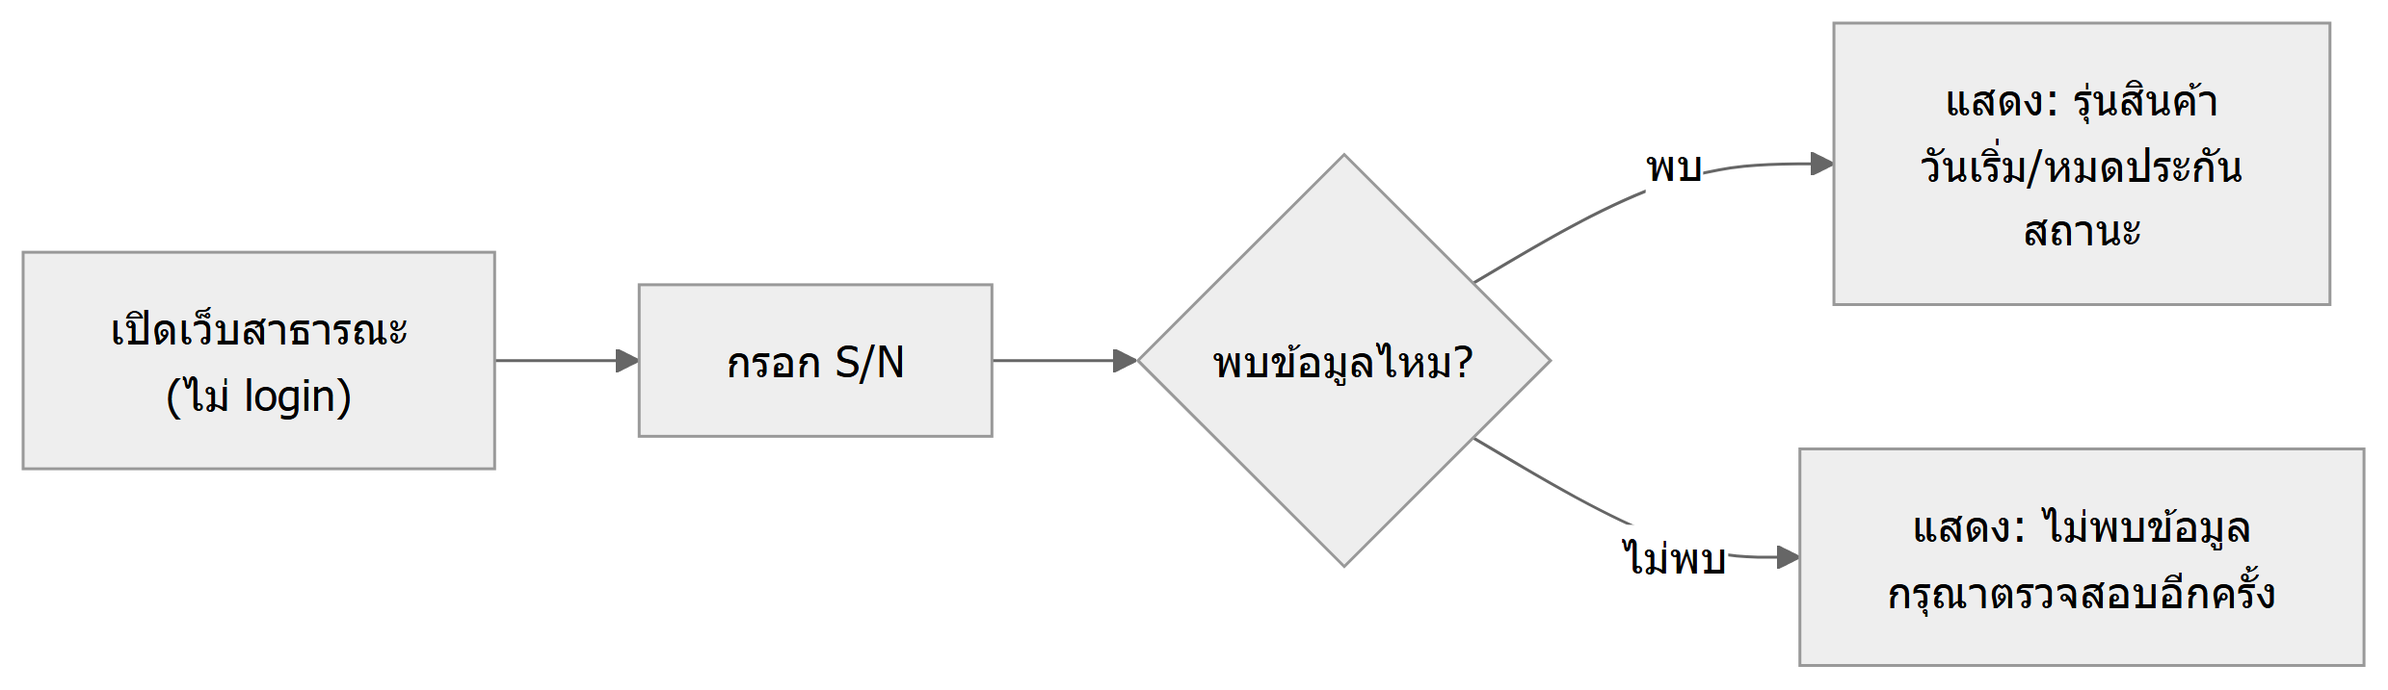
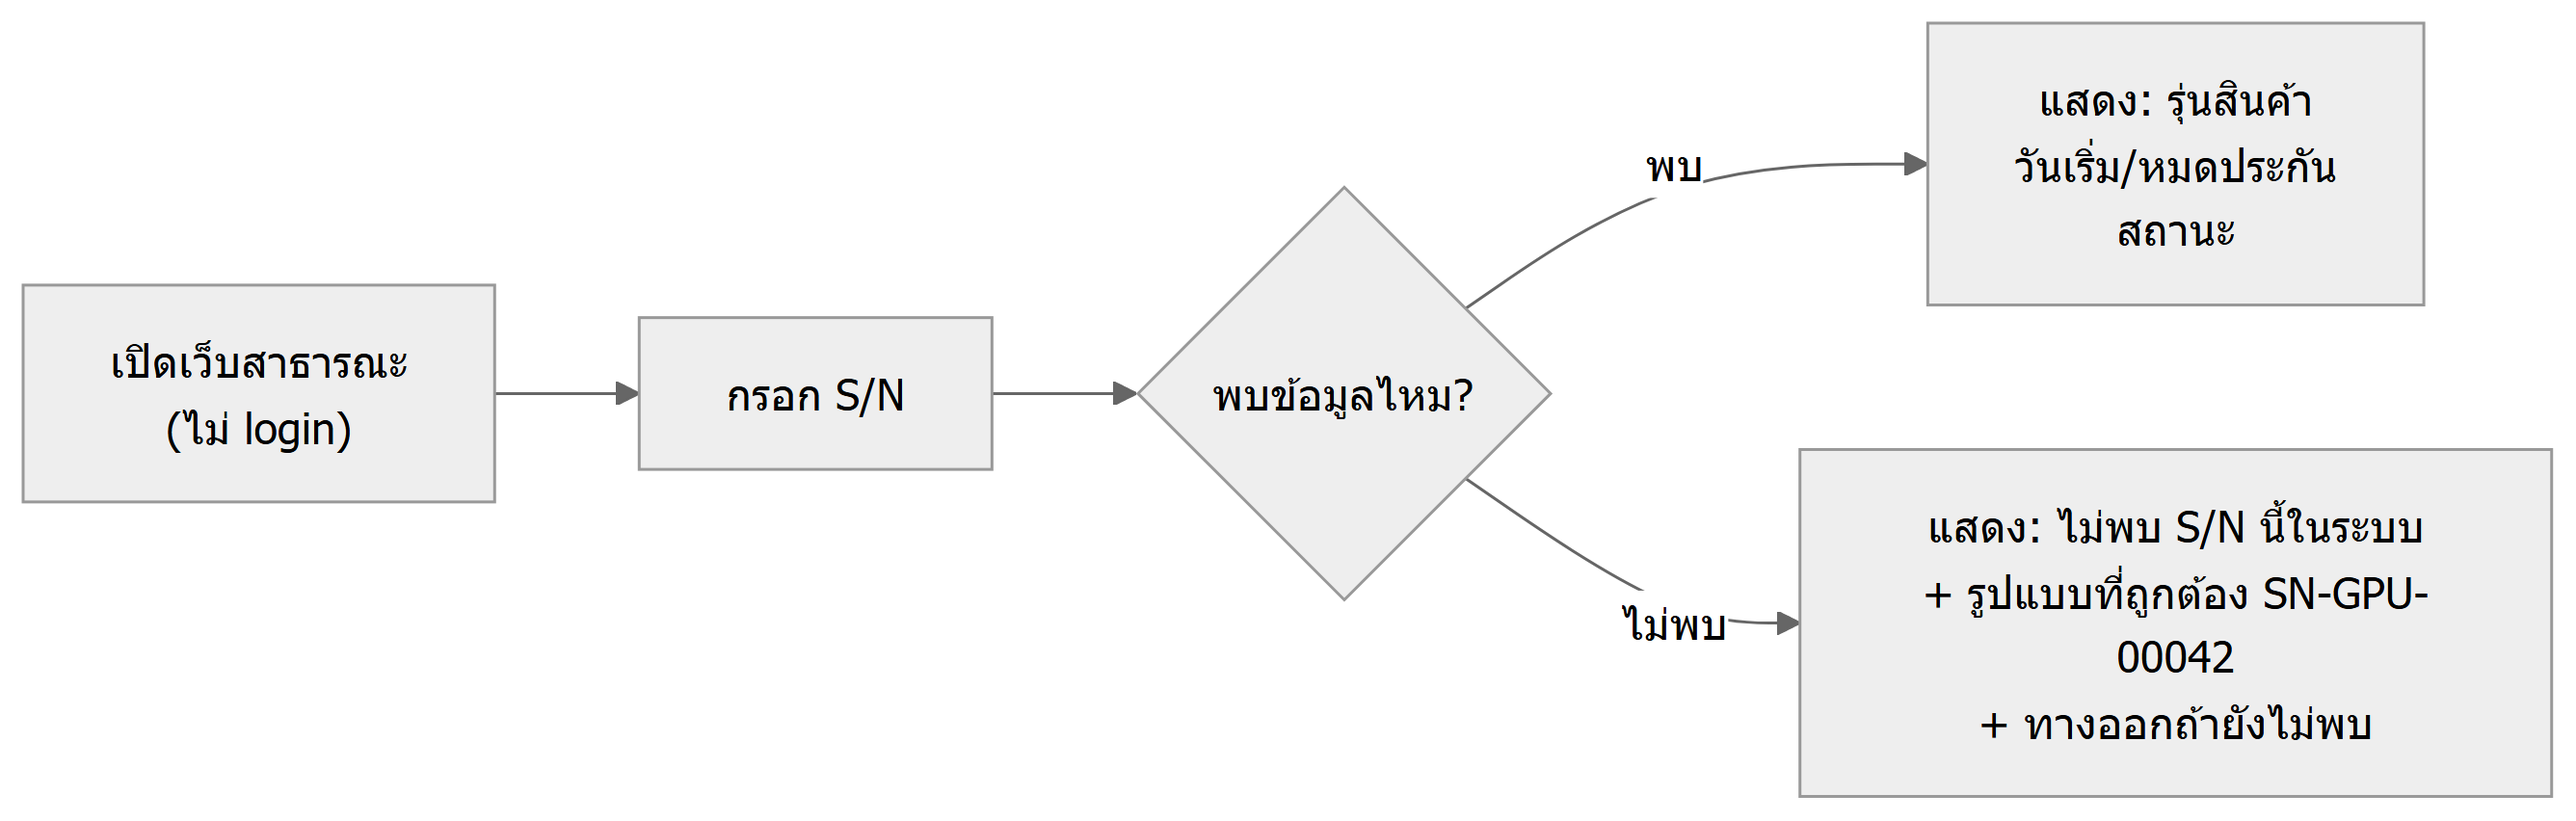
docs: ซิงก์ Activity Diagram ให้ตรงกับข้อความ error ที่หน้าจอจริงแสดง (#31)
ไดอะแกรมยังเขียนว่าระบบแสดง 'ไม่พบข้อมูล กรุณาตรวจสอบอีกครั้ง'
ซึ่งเป็นข้อความเดิมก่อนแก้ D-02 — เป็นทางตันที่ผู้ใช้ไม่รู้ว่าต้องทำอะไรต่อ

หน้าจอจริงแก้ไปแล้วเป็น 3 บรรทัด: ไม่พบ S/N นี้ในระบบ / รูปแบบที่ถูกต้อง
SN-GPU-00042 / ทางออกถ้ายังไม่พบ ซึ่งตรงตาม AC ข้อ 2 ของ US-01

เจอตอนดึงไดอะแกรมมาใส่รายงานบทที่ 3 แล้วเทียบกับ WarrantyCheck.jsx

diff --git a/docs/03-Architecture-Design.md b/docs/03-Architecture-Design.md
@@ -283,7 +283,7 @@ flowchart LR
     A["เปิดเว็บสาธารณะ<br/>(ไม่ login)"] --> B["กรอก S/N"]
     B --> C{พบข้อมูลไหม?}
     C -->|พบ| D["แสดง: รุ่นสินค้า<br/>วันเริ่ม/หมดประกัน<br/>สถานะ"]
-    C -->|ไม่พบ| E["แสดง: ไม่พบข้อมูล<br/>กรุณาตรวจสอบอีกครั้ง"]
+    C -->|ไม่พบ| E["แสดง: ไม่พบ S/N นี้ในระบบ<br/>+ รูปแบบที่ถูกต้อง SN-GPU-00042<br/>+ ทางออกถ้ายังไม่พบ"]
 ```
 
 ### Branch Staff — บันทึกขาย + สร้าง PR (ตรงกับ US-04, US-05, US-06)
